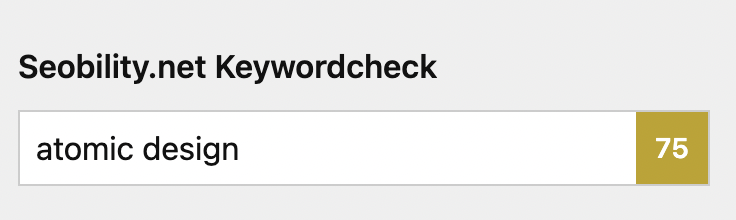
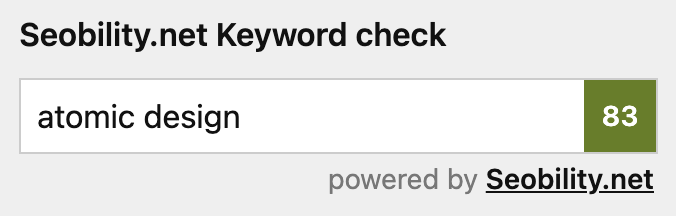
:sparkles: free != scrapped, better error handling
related to #1

Changed region(s): [[0.0, 0.0833, 0.9941, 0.9167]]

diff --git a/index.js b/index.js
@@ -1,1 +1,1 @@
-(function(){"use strict";var f=function(){var e=this,n=e.$createElement,s=e._self._c||n;return s("k-field",{staticClass:"keyword-wrapper",attrs:{disabled:e.disabled,help:e.help,label:e.label,required:e.required,when:e.when}},[s("k-input",{attrs:{theme:"field",type:"text",value:e.value},on:{input:e.onInput}},[s("k-button",{class:["k-input-icon-button keywordcheck",e.color],attrs:{slot:"icon",link:e.url,tooltip:e.$t("open"),tabindex:"-1",target:"_blank",text:e.scoreDyn},slot:"icon"})],1)],1)},_=[],b="";function p(e,n,s,l,r,a,c,m){var t=typeof e=="function"?e.options:e;n&&(t.render=n,t.staticRenderFns=s,t._compiled=!0),l&&(t.functional=!0),a&&(t._scopeId="data-v-"+a);var o;if(c?(o=function(i){i=i||this.$vnode&&this.$vnode.ssrContext||this.parent&&this.parent.$vnode&&this.parent.$vnode.ssrContext,!i&&typeof __VUE_SSR_CONTEXT__!="undefined"&&(i=__VUE_SSR_CONTEXT__),r&&r.call(this,i),i&&i._registeredComponents&&i._registeredComponents.add(c)},t._ssrRegister=o):r&&(o=m?function(){r.call(this,(t.functional?this.parent:this).$root.$options.shadowRoot)}:r),o)if(t.functional){t._injectStyles=o;var C=t.render;t.render=function(w,d){return o.call(d),C(w,d)}}else{var u=t.beforeCreate;t.beforeCreate=u?[].concat(u,o):[o]}return{exports:e,options:t}}const g={props:{disabled:Boolean,help:String,label:String,required:Boolean,when:String,value:String,score:Number,url:String,loading:{type:Boolean,default:!1}},watch:{hasChanges(){this.hasChanges||this.syncContent()}},computed:{hasChanges(){return this.$store.getters["content/hasChanges"]()},scoreDyn(){return this.hasChanges||this.loading?"":this.score},color(){if(!this.score||this.hasChanges)return"white";if(this.score<=50)return"red";if(this.score<=80)return"yellow";if(this.score>80)return"green"}},methods:{onInput(e){this.$emit("input",e)},syncContent(){let n=this.$store.getters["content/id"]().split("?"),s=n[0],l=!1;if(n.length>1){let r=new URLSearchParams(n[1]);for(let a of r.entries())a[0]=="language"&&(l=a[1])}this.$api.get("seobility/keywordcheck",{id:s,lang:l}).then(r=>{this.score=r.score,this.url=r.url,this.loading=!1}).catch(r=>{this.loading=!1})}}},h={};var v=p(g,f,_,!1,y,null,null,null);function y(e){for(let n in h)this[n]=h[n]}var k=function(){return v.exports}();window.panel.plugin("bnomei/seobility",{fields:{keywordcheck:k},icons:{loader:'<g fill="none" fill-rule="evenodd"><g transform="translate(1 1)" stroke-width="1.75"><circle cx="7" cy="7" r="7.2" stroke="#000" stroke-opacity=".2"/><path d="M14.2,7c0-4-3.2-7.2-7.2-7.2" stroke="#000"><animateTransform attributeName="transform" type="rotate" from="0 7 7" to="360 7 7" dur="1s" repeatCount="indefinite"/></path></g></g>'}})})();
+(function(){"use strict";var f=function(){var e=this,n=e.$createElement,i=e._self._c||n;return i("k-field",{staticClass:"keyword-wrapper",attrs:{disabled:e.disabled,help:e.help,label:e.label,required:e.required,when:e.when}},[i("k-input",{attrs:{theme:"field",type:"text",value:e.value},on:{input:e.onInput}},[i("k-button",{class:["k-input-icon-button keywordcheck",e.color],attrs:{slot:"icon",link:e.url,tooltip:e.$t("open"),tabindex:"-1",target:"_blank",text:e.scoreDyn},slot:"icon"})],1),i("div",{staticClass:"keywordlink"},[e._v("powered by "),i("a",{attrs:{href:"https://www.seobility.net/en/?ref=kirby3-seobility-plugin"}},[e._v("Seobility.net")])])],1)},_=[],C="";function p(e,n,i,l,r,a,c,w){var t=typeof e=="function"?e.options:e;n&&(t.render=n,t.staticRenderFns=i,t._compiled=!0),l&&(t.functional=!0),a&&(t._scopeId="data-v-"+a);var s;if(c?(s=function(o){o=o||this.$vnode&&this.$vnode.ssrContext||this.parent&&this.parent.$vnode&&this.parent.$vnode.ssrContext,!o&&typeof __VUE_SSR_CONTEXT__!="undefined"&&(o=__VUE_SSR_CONTEXT__),r&&r.call(this,o),o&&o._registeredComponents&&o._registeredComponents.add(c)},t._ssrRegister=s):r&&(s=w?function(){r.call(this,(t.functional?this.parent:this).$root.$options.shadowRoot)}:r),s)if(t.functional){t._injectStyles=s;var b=t.render;t.render=function(m,u){return s.call(u),b(m,u)}}else{var d=t.beforeCreate;t.beforeCreate=d?[].concat(d,s):[s]}return{exports:e,options:t}}const g={props:{disabled:Boolean,help:String,label:String,required:Boolean,when:String,value:String,score:Number,url:String,loading:{type:Boolean,default:!1}},watch:{hasChanges(){this.hasChanges||this.syncContent()}},computed:{hasChanges(){return this.$store.getters["content/hasChanges"]()},scoreDyn(){return this.hasChanges||this.loading?"":this.score},color(){if(!this.score||this.hasChanges)return"white";if(this.score<=50)return"red";if(this.score<=80)return"yellow";if(this.score>80)return"green"}},methods:{onInput(e){this.$emit("input",e)},syncContent(){let n=this.$store.getters["content/id"]().split("?"),i=n[0],l=!1;if(n.length>1){let r=new URLSearchParams(n[1]);for(let a of r.entries())a[0]=="language"&&(l=a[1])}this.$api.get("seobility/keywordcheck",{id:i,lang:l}).then(r=>{this.score=r.score,this.url=r.url,this.loading=!1}).catch(r=>{this.loading=!1})}}},h={};var v=p(g,f,_,!1,y,null,null,null);function y(e){for(let n in h)this[n]=h[n]}var k=function(){return v.exports}();window.panel.plugin("bnomei/seobility",{fields:{keywordcheck:k},icons:{loader:'<g fill="none" fill-rule="evenodd"><g transform="translate(1 1)" stroke-width="1.75"><circle cx="7" cy="7" r="7.2" stroke="#000" stroke-opacity=".2"/><path d="M14.2,7c0-4-3.2-7.2-7.2-7.2" stroke="#000"><animateTransform attributeName="transform" type="rotate" from="0 7 7" to="360 7 7" dur="1s" repeatCount="indefinite"/></path></g></g>'}})})();

diff --git a/index.css b/index.css
@@ -1,1 +1,1 @@
-.keyword-wrapper .keywordcheck{display:flex;background:var(--color-orange-400);color:#fff;overflow:hidden;align-items:center;justify-content:center;font-weight:600}.keyword-wrapper .keywordcheck.red{background:var(--color-red)}.keyword-wrapper .keywordcheck.yellow{background:var(--color-yellow)}.keyword-wrapper .keywordcheck.green{background:var(--color-green)}.keyword-wrapper .keywordcheck span{opacity:1}
+.keyword-wrapper .keywordcheck{display:flex;background:var(--color-orange-400);color:#fff;overflow:hidden;align-items:center;justify-content:center;font-weight:600}.keyword-wrapper .keywordcheck.red{background:var(--color-red)}.keyword-wrapper .keywordcheck.yellow{background:var(--color-yellow)}.keyword-wrapper .keywordcheck.green{background:var(--color-green)}.keyword-wrapper .keywordcheck span{opacity:1}.keyword-wrapper .keywordlink{padding-top:.25rem;padding-right:.125rem;text-align:right;font-size:var(--text-sm);color:var(--color-gray-600)}.keyword-wrapper .keywordlink a,.keyword-wrapper .keywordlink a:hover,.keyword-wrapper .keywordlink a:visited,.keyword-wrapper .keywordlink a:active{color:var(--color-gray-900);font-weight:var(--font-bold);text-decoration:underline}

diff --git a/src/components/fields/Keywordcheck.vue b/src/components/fields/Keywordcheck.vue
@@ -23,6 +23,7 @@
           :text="scoreDyn"
       />
     </k-input>
+    <div class="keywordlink">powered by <a href="https://www.seobility.net/en/?ref=kirby3-seobility-plugin">Seobility.net</a></div>
   </k-field>
 </template>
 
@@ -130,5 +131,20 @@ export default {
   }
   .keyword-wrapper .keywordcheck span {
     opacity: 1;
+  }
+  .keyword-wrapper .keywordlink {
+    padding-top: 0.25rem;
+    padding-right: 0.125rem;
+    text-align: right;
+    font-size: var(--text-sm);
+    color: var(--color-gray-600);
+  }
+  .keyword-wrapper .keywordlink a,
+  .keyword-wrapper .keywordlink a:hover,
+  .keyword-wrapper .keywordlink a:visited,
+  .keyword-wrapper .keywordlink a:active {
+    color: var(--color-gray-900);
+    font-weight: var(--font-bold);
+    text-decoration: underline;
   }
 </style>

diff --git a/classes/Seobility.php b/classes/Seobility.php
@@ -5,6 +5,7 @@ declare(strict_types=1);
 namespace Bnomei;
 
 use Exception;
+use Kirby\Data\Json;
 use Kirby\Http\Remote;
 use Kirby\Toolkit\A;
 
@@ -56,6 +57,14 @@ final class Seobility
 
     public function keywordcheck(\Kirby\Cms\Page $page, ?string $keyword = null, ?string $url = null): array
     {
+        // if has error and not expired yet...
+        if(kirby()->cache('bnomei.seobility')->get('Error')) {
+            return [
+                'modified' => $page->modified(),
+                'score' => 0,
+                'url' => $url,
+            ];
+        }
         $keyword = $keyword ?? $page->keywordcheck()->value();
         $key = md5($page->url() . $keyword);
         $data = kirby()->cache('bnomei.seobility')->get($key);
@@ -69,7 +78,11 @@ final class Seobility
                 // TODO: paid endpoint
             } elseif ($check) {
                 $url = option('bnomei.seobility.free.keywordcheck')($check, $keyword);
-                $remote = Remote::get($url);
+                $remote = Remote::get($url, [
+                    'headers' => [
+                        'X-Kirby3-Seobility-Plugin' => Json::read(__DIR__ . '/../composer.json')['version'],
+                    ],
+                ]);
                 if ($remote->code() == 200) {
                     preg_match_all(
                         '/"data":(.*?),/',
@@ -79,6 +92,12 @@ final class Seobility
                     if ($matches && count($matches[1])) {
                         $score = intval($matches[1][0]);
                     }
+                } elseif ($remote->code() == 451) {
+                    kirby()->cache('bnomei.seobility')->set('Error', 60*24*7);  // minutes
+                } elseif ($remote->code() == 429) {
+                    kirby()->cache('bnomei.seobility')->set('Error', 60);  // minutes
+                } else {
+                    kirby()->cache('bnomei.seobility')->set('Error', 1); // minutes
                 }
             }
 

diff --git a/vendor/composer/installed.php b/vendor/composer/installed.php
@@ -1,7 +1,7 @@
 <?php return array(
     'root' => array(
-        'pretty_version' => '1.0.4',
-        'version' => '1.0.4.0',
+        'pretty_version' => '1.1.0',
+        'version' => '1.1.0.0',
         'type' => 'kirby-plugin',
         'install_path' => __DIR__ . '/../../',
         'aliases' => array(),
@@ -11,8 +11,8 @@
     ),
     'versions' => array(
         'bnomei/kirby3-seobility' => array(
-            'pretty_version' => '1.0.4',
-            'version' => '1.0.4.0',
+            'pretty_version' => '1.1.0',
+            'version' => '1.1.0.0',
             'type' => 'kirby-plugin',
             'install_path' => __DIR__ . '/../../',
             'aliases' => array(),

diff --git a/index.php b/index.php
@@ -19,6 +19,7 @@ Kirby::plugin('bnomei/seobility', [
                     '?url=' . urlencode($url),
                     '&keyword=' . str_replace([',',' '], ['','+'], $keyword ?? ''),
                     '&crawltype=1',
+                    '&ref=kirby3-seobility-plugin',
                 ]);
             },
         ],

diff --git a/README.md b/README.md
@@ -7,10 +7,14 @@
 [![Maintainability](https://flat.badgen.net/codeclimate/maintainability/bnomei/kirby3-seobility)](https://codeclimate.com/github/bnomei/kirby3-seobility) 
 [![Twitter](https://flat.badgen.net/badge/twitter/bnomei?color=66d9ef)](https://twitter.com/bnomei)
 
-Kirby 3 Plugin to use free and paid API of [Seobility.net](https://www.seobility.net/)
+Kirby 3 Plugin to use [Seobility.net](https://www.seobility.net/?ref=kirby3-seobility-plugin)
 
 ## Commercial Usage
 
+> <br>
+> <b>Support Seobility.net</b><br><br>
+> Unless you enter a paid API key this plugin will scrape the web based tools of Seobility.net. They know about this, did send me a really nice email and decided for now not to block the scrapping. Go signup for a account with API access to support them!
+> <br>
 > <br>
 > <b>Support open source!</b><br><br>
 > This plugin is free but if you use it in a commercial project please consider to sponsor me or make a donation.<br>
@@ -31,10 +35,10 @@ Kirby 3 Plugin to use free and paid API of [Seobility.net](https://www.seobility
 
 ## Roadmap
 
-- [x] add features of free api
+- [x] scraper for web based tools (not a free api)
 - [ ] add features of paid api
 
-## Usage free API
+## Usage
 
 Add the field to your blueprint.
 
@@ -59,7 +63,7 @@ echo $page->keywordcheckScore();
 
 ## Robots.txt
 
-If you have a custom `robots.txt`-file or use my plugin make sure the Seobility bot can crawl the website. My [Robots.txt plugin](https://github.com/bnomei/kirby3-robots-txt) must be in **non debug mode**.
+If you have a custom `robots.txt`-file or use my plugin make sure the [Seobility.net](https://www.seobility.net/?ref=kirby3-seobility-plugin) bot can crawl the website. My [Robots.txt plugin](https://github.com/bnomei/kirby3-robots-txt) must be in **non debug mode**.
 
 In a custom `robots.txt`-file add something like this:
 ```
@@ -69,7 +73,7 @@ Allow: /
 
 ## How it works
 
-The plugin will query the free or paid API and cache the results until the content page is modified or cache expires (see settings below).
+The plugin will scrape the web based tools of [Seobility.net](https://www.seobility.net/?ref=kirby3-seobility-plugin) or query your paid API account and cache the results until the content page is modified or cache expires (see settings below).
 
 > ⚠ EVERY time you press the save button in the panel for a page with this field a request to the API will be made. This might delay saving by a second or two.
 
